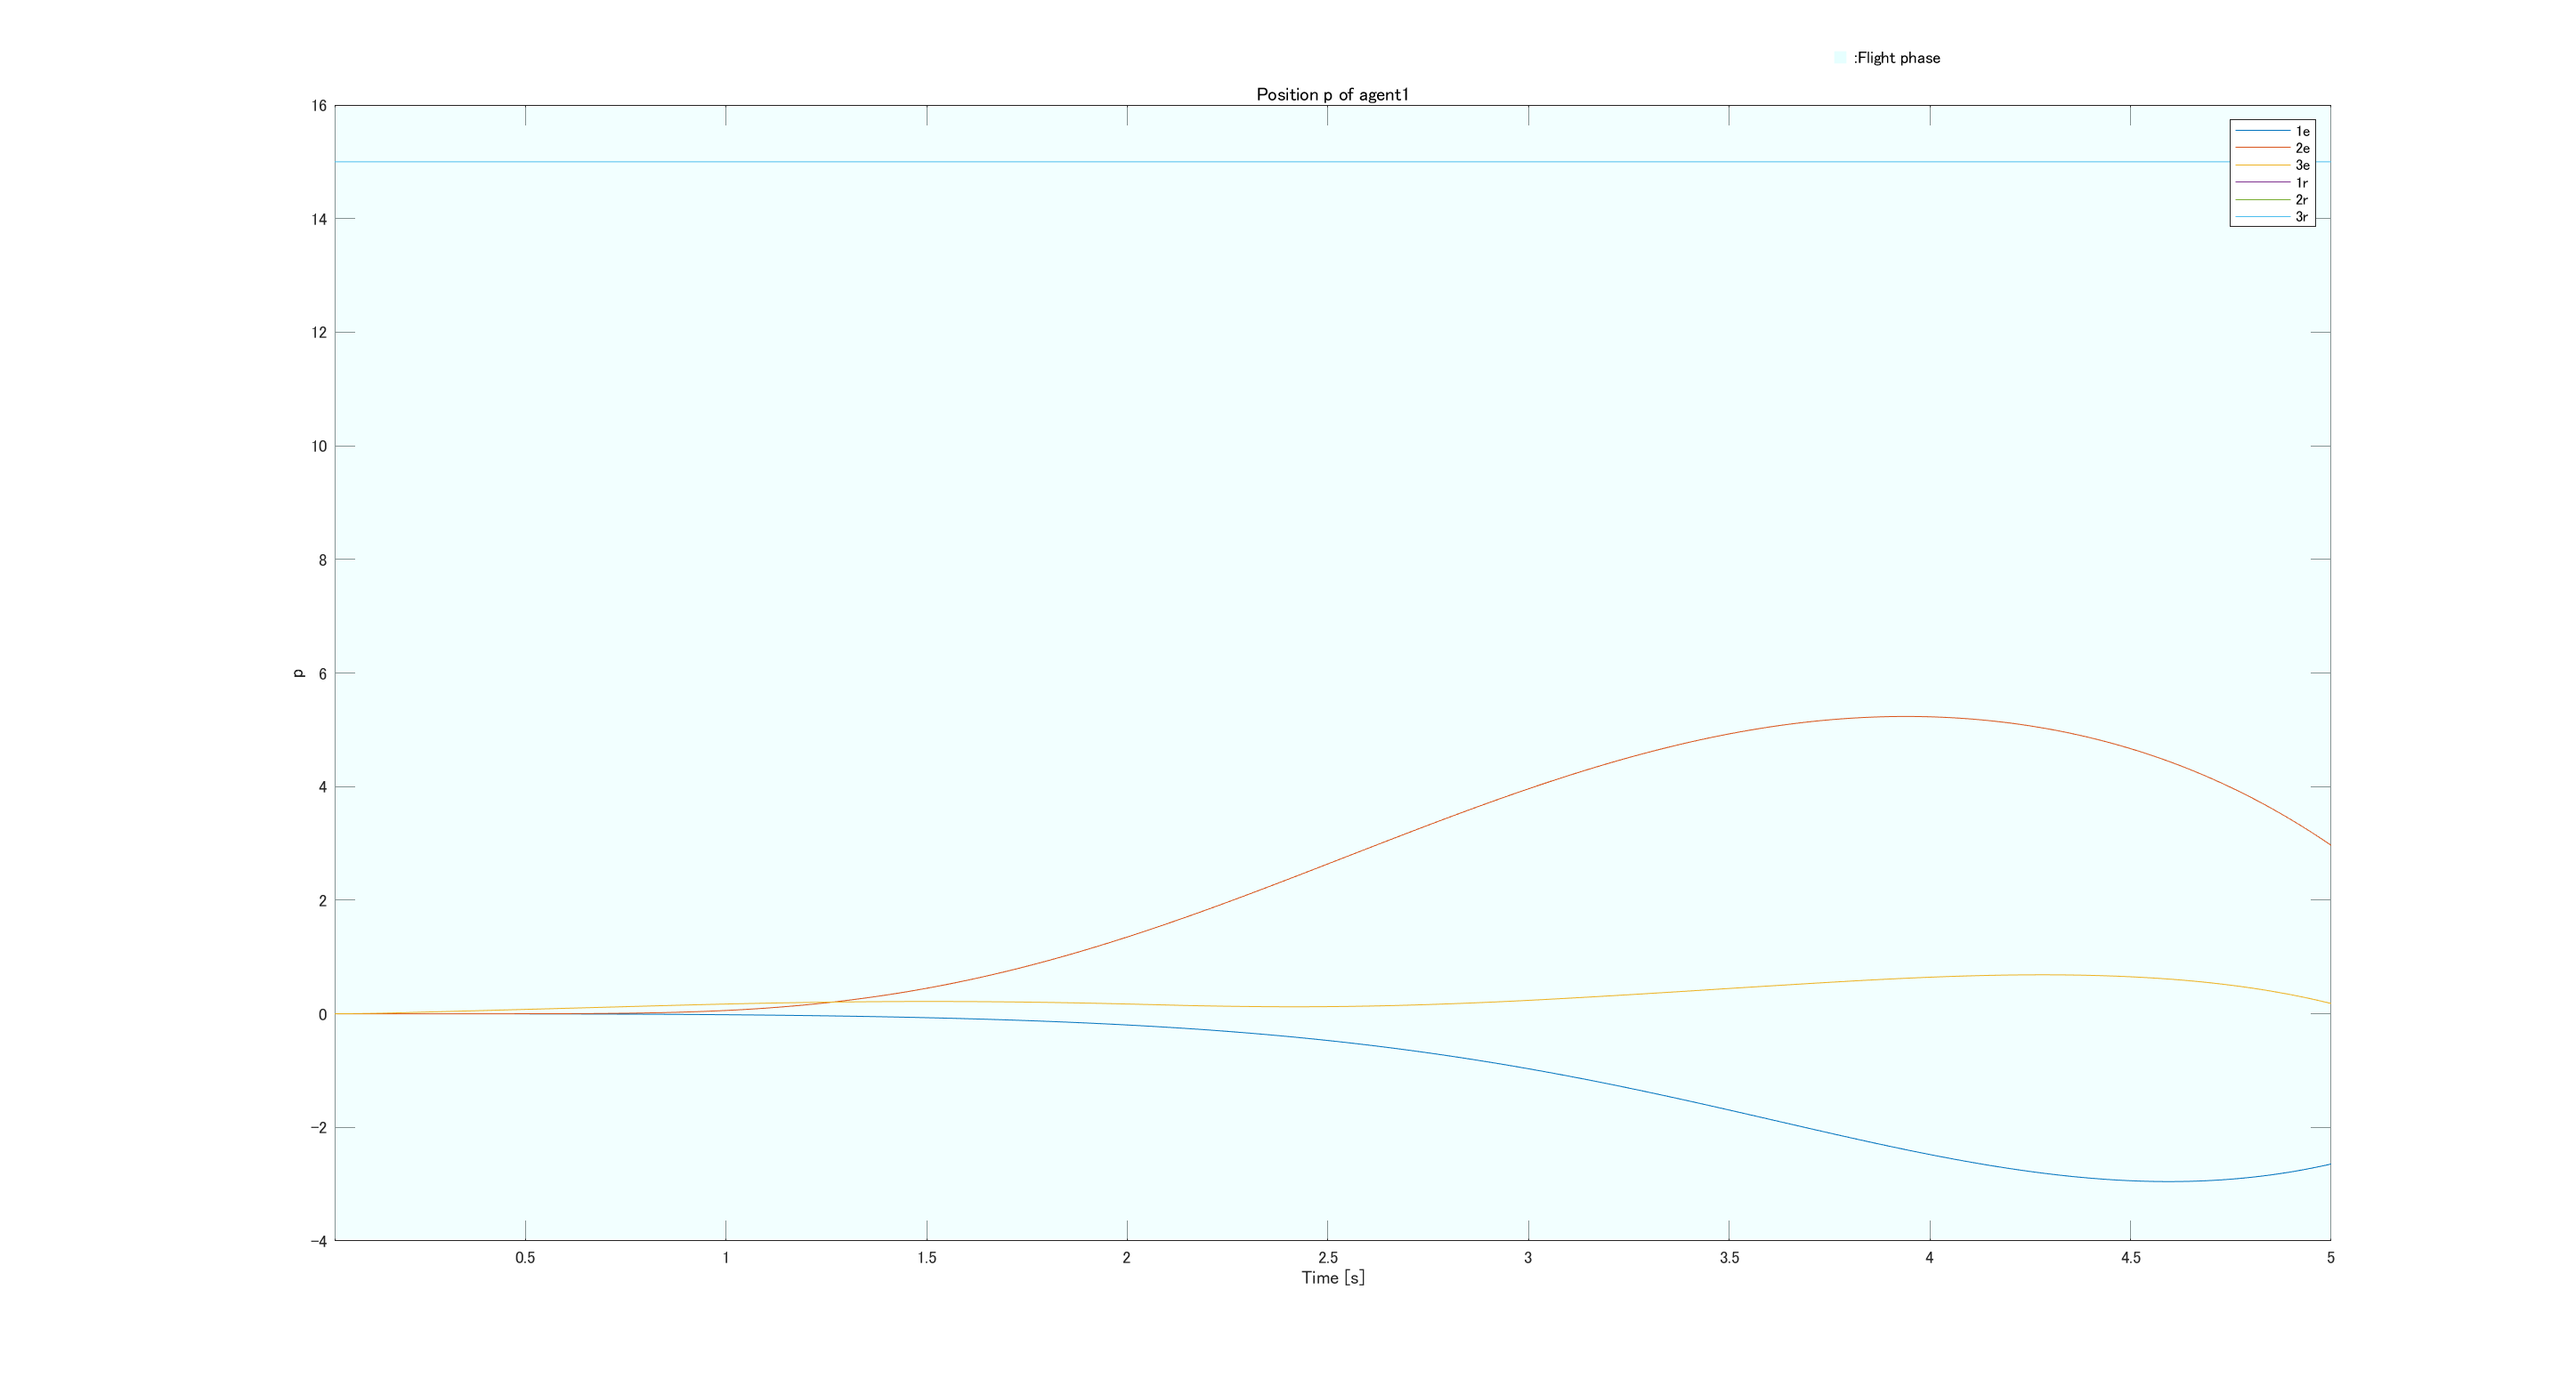
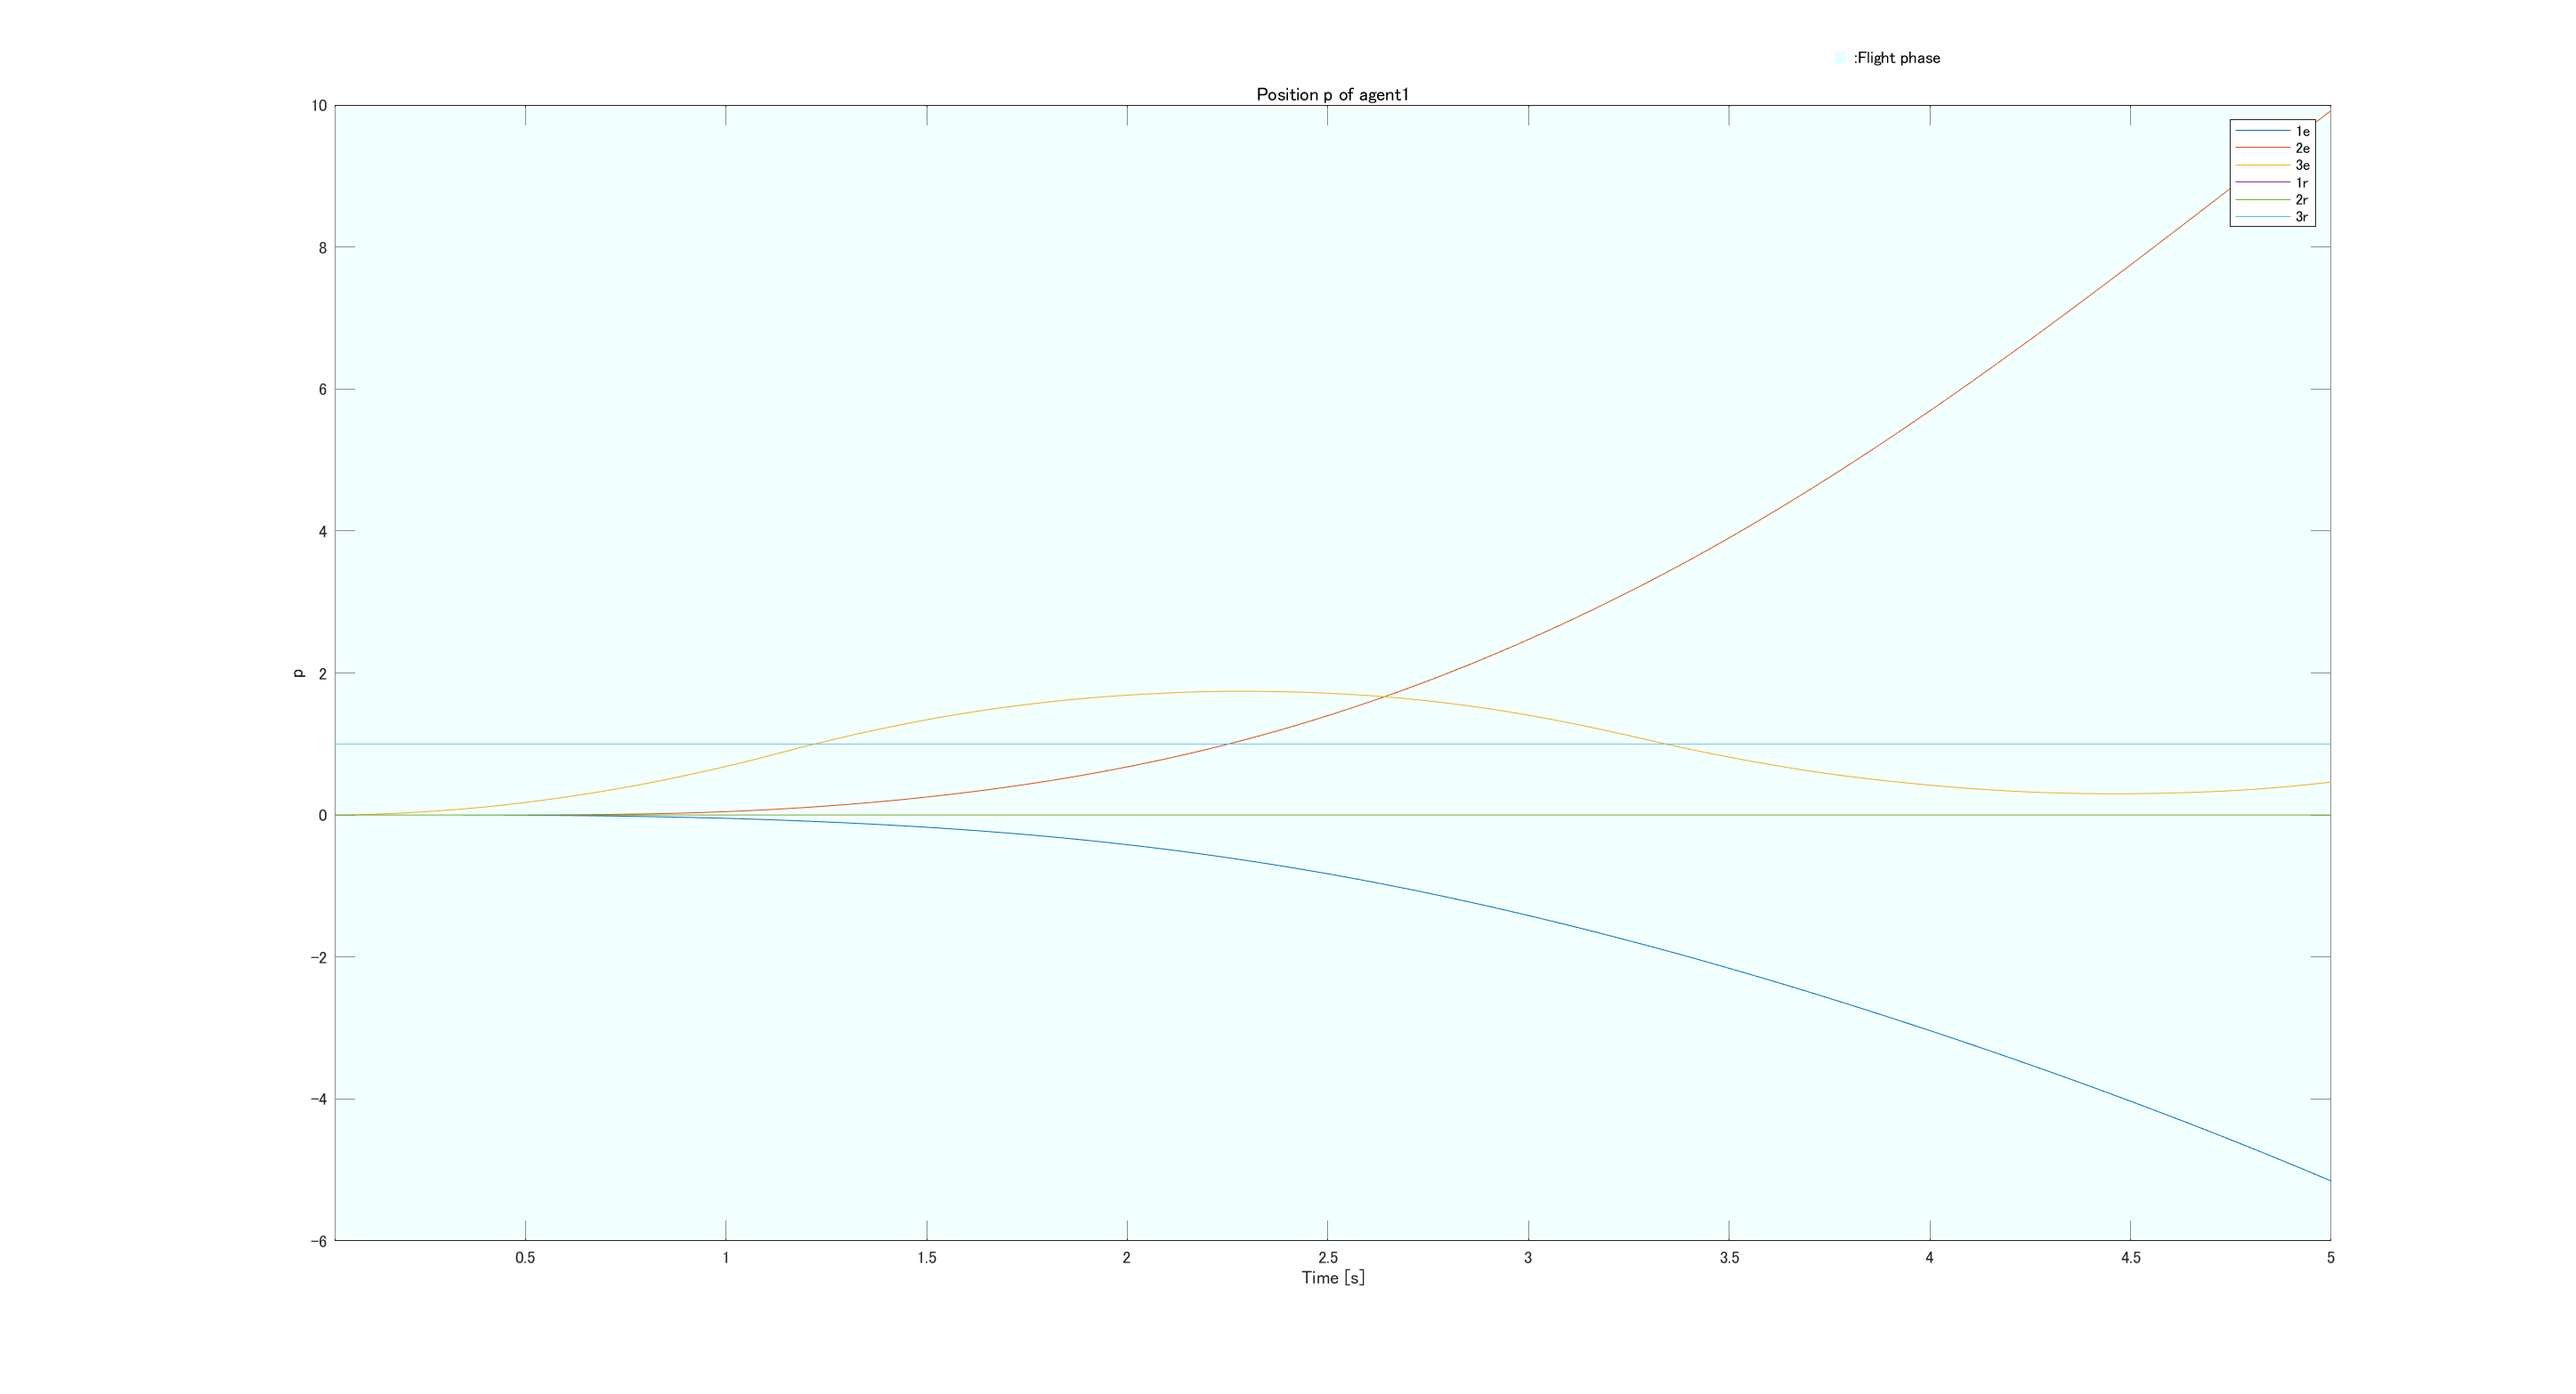
make MCMPC
入力が正しくリセットされていない問題を解決

Changed region(s): [[0.2488, 0.7045, 0.3732, 0.7352], [0.2488, 0.582, 0.2799, 0.6126]]

diff --git a/main_no_horizon_re.m b/main_no_horizon_re.m
@@ -24,7 +24,6 @@ fInput = 0;
 run("main3_loop_setup.m");
 
 try
-    tic
     while round(time.t, 5) <= te
         %% sensor
         %    tic
@@ -58,6 +57,7 @@ end
             agent(i).do_sensor(param(i).sensor.list);
             %if (fOffline);    expdata.overwrite("sensor",time.t,agent,i);end
         end
+        
 
         %% estimator, reference generator, controller
         for i = 1:N
@@ -84,94 +84,75 @@ end
                 param(i).controller.list{j} = param(i).controller.(agent(i).controller.name(j));
             end
             agent(i).do_controller(param(i).controller.list);
-            %if (fOffline); expudata.overwrite("input",time.t,agent,i);end   
+            %if (fOffline); expudata.overwrite("input",time.t,agent,i);end
+            % 強制的に入力を決定
+       
             tic
             % MPC controller
             % ts探し
-            horizon = 2;
-            rng(0,'twister');
             ts = 0;
 %             p_monte = agent.model.state.p
             % 入力のサンプルから評価
             ref_input = [0.269 * 9.81 / 4 0.269 * 9.81 / 4 0.269 * 9.81 / 4 0.269 * 9.81 / 4]'; % ホバリングの目標入力
-            Q_monte_x = 1; Q_monte_y = 1; Q_monte_z = 10000000;
-            Q_monte = [Q_monte_x 0 0; 0 Q_monte_y 0; 0 0 Q_monte_z];
-            R_monte = 1;    VQ_monte = 100;    WQ_monte = 1;
+            Q_monte_x = 1; Q_monte_y = 1; Q_monte_z = 1000000;
+            Q_monte = diag([Q_monte_x, Q_monte_y, Q_monte_z]);
+            VQ_monte_x = 1000; VQ_monte_y = 1000; VQ_monte_z = 1000;
+            VQ_monte = diag([VQ_monte_x, VQ_monte_y, VQ_monte_z]);
+            R_monte = 1;    
             % 評価関数
 %             fun = @(p_monte, u_monte) (p_monte - agent.reference.result.state.p)'*Q_monte*(p_monte - agent.reference.result.state.p)+(u_monte - ref_input)'*R_monte*(u_monte - ref_input); 
 %             fun = @(p_monte) (p_monte - agent.reference.result.state.p)'*Q_monte*(p_monte - agent.reference.result.state.p); 
             fun = @(p_monte, v_monte) (p_monte - agent.reference.result.state.p)'*Q_monte*(p_monte - agent.reference.result.state.p)+v_monte'*VQ_monte*v_monte; 
-%             fun = @(p_monte, v_monte, w_monte) (p_monte - agent.reference.result.state.p)'*Q_monte*(p_monte - agent.reference.result.state.p)+v_monte'*VQ_monte*v_monte+w_monte'*WQ_monte*w_monte; 
             % 制約条件
             Fsub = @(sub_monte1) sub_monte1 > 0;
-            sample = 20;   % サンプル数
             % ホバリングから±sigma%の範囲
-            sigma = 0.1;
-            delta = 0.000;   % プロペラの補正
-%             sigma_xy = 0.0005;
+            rng('shuffle')
+            sigma = 0.3;
+            delta1 = 0.0; delta2 = 0.0; delta3 = 0.0; delta4 = 0.0;
             a = 0.269 * 9.81 / 4 - 0.269 * 9.81 / 4 * sigma;           b = 0.269 * 9.81 / 4 + 0.269 * 9.81 / 4 * sigma;
-            % 入力 u 入力の初期化ちゃんと
-            u1(: ,1) = (b-a).*rand(sample,1) + a;               u2(: ,1) = (b-a).*rand(sample,1) + a + delta;
-            u3(: ,1) = (b-a).*rand(sample,1) + a;               u4(: ,1) = (b-a).*rand(sample,1) + a + delta;
-            u = [u1 u2 u3 u4];  % 予測ステップでは同様の入力を用いる
-            % 配列定義
-            Adata = cell(sample, sample);  % 2horizon = 2乗のサイズの配列
-            P_monte = cell(sample, horizon);
-            V_monte = cell(sample, horizon);
-            State_monte = cell(sample, 1);
-            fZpos = zeros(sample, horizon);
-            fStart = 0;
-            fSub = 0;   fSub_f = 0;
+            sample = 10;   % サンプル数
+            u = (b-a).*rand(sample,4) + a        
+%             a_xy = 0.269 * 9.81 / 4 - 0.269 * 9.81 / 4 * sigma_xy;     b_xy = 0.269 * 9.81 / 4 + 0.269 * 9.81 / 4 * sigma_xy;
+            % 入力 u
+%             u = [0 0 0 0];
+%             u1(: ,1) = (b-a).*rand(sample,1) + a + delta1;               u2(: ,1) = (b-a).*rand(sample,1) + a + delta2;
+%             u3(: ,1) = (b-a).*rand(sample,1) + a + delta3;               u4(: ,1) = (b-a).*rand(sample,1) + a + delta4;
+%             u = [u1 u2 u3 u4];
             
-            % 座標の表示
-            fprintf("%f\t %f\t %f\n", agent.estimator.result.state.p(1), agent.estimator.result.state.p(2), agent.estimator.result.state.p(3))
-            % calculate MPC
-            horizon = 1;
+            
+            % 配列定義
+            Adata = zeros(sample, 1);   % 評価値
+            P_monte = zeros(sample, 3); % ある入力での位置
+            V_monte = zeros(sample, 3); % ある入力での速度
+            fZpos = zeros(sample, 1);
             for monte = 1 : sample
                 [~,tmpx]=agent.model.solver(@(t,x) agent.model.method(x, u(monte, :)',agent.parameter.get()),[ts ts+dt],agent.estimator.result.state.get());
-                State_monte{monte, horizon} = tmpx(end, :);   % モデルの状態の記録
-            end
-            
-            % 予測ステップ
-            horizon = 2;
-            for monte = 1: sample
-                for horimonte = 1 : sample
-                    % ホライゾンの計算中は微分方程式の解を状態として用いる
-                    [~,tmpx]=agent.model.solver(@(t,x) agent.model.method(x, u(monte, :)',agent.parameter.get()),[ts ts+dt],State_monte{monte, horizon-1}');
-%                     P_monte{monte, horizon} = tmpx(end, 1:3);  % ある入力での位置 x, y, z
-%                     V_monte{monte, horizon} = tmpx(end, 7:9);  % ある入力での速度 vx, vy, vz
-                    State_monte{monte, horimonte} = tmpx(end, :);   % モデルの状態の更新
-%                     Adata(monte, horimonte) = fun(P_monte(monte, 1:3)', V_monte(monte, 1:3)');    % p, v
-                     if Fsub(tmpx(end, 1:3)')
-                         Adata{monte, horimonte} = fun(tmpx(end, 1:3)', tmpx(end, 7:9)');
-                    else
-                        Adata{monte, horimonte} = 10^10;
-        %                         Adata{monte, horimonte} = fun(tmpx(end, 1:3)', tmpx(end, 7:9)', tmpx(end, 4:6)');
-                    end
-                    if tmpx(end, 3) < 0
-%                         fSub = fSub + 1;
-                        disp("Stop!!");               % エラーを吐かせて終了させる
-%                         if fSub > 30
-%                             printf("stop simulation");
-%                         end
-%                     else
-%                         fprintf("%3f, %f, %f\n", tmpx(end, 1), tmpx(end, 2), tmpx(end, 3))
-                    end
+                P_monte(monte, :) = tmpx(end, 1:3);  % ある入力での位置 x, y, z
+                V_monte(monte, :) = tmpx(end, 7:9);  % ある入力での速度 vx, vy, vz
+                if Fsub(P_monte(monte, 3)) == 1
+%                     Adata(monte, 1) = fun(P_monte(monte, 1:3)');    % p / 評価値(x, y, z)算出
+                    Adata(monte, 1) = fun(P_monte(monte, 1:3)', V_monte(monte, 1:3)');    % p, v
+%                     fZpos(monte, 1) = 0;
+                else
+                    Adata(monte, 1) = 10^10;
+                    fZpos(monte, 1) = 1
                 end
             end
+            toc
             
-           
             
-            
-            calT = toc;
-            minAdata = zeros(sample, 1);
-            Adata = cell2mat(Adata);
-            for mindata = 1: sample
-                [minAdata_col, min_col] = min(Adata(mindata, :));
-                minAdata(mindata, 1) = minAdata_col;
-            end
-            [~,min_index] = min(minAdata(:, 1));   % 評価値の合計の最小値インデックス算出
+%                 Adata(monte, 1:3) = arrayfun(fun, P_monte(1:3)', u(monte, :)')';  % 評価値(x, y, z)算出
+            [~,min_index] = min(Adata(:, 1));   % 評価値の合計の最小値インデックス算出
+            u(min_index, 4) = u(min_index, 4) + delta4;
             agent.input = u(min_index, :)';     % 最適な入力の取得
+            if fZpos(min_index, 1) == 1
+                printf("Stop!!");               % エラーを吐かせて終了させる
+            end
+%             if  P_monte(min_index, 3) > 0
+%                 agent.input = u(min_index, :)';     % 最適な入力の取得
+%             else
+%                 agent.input = [0; 0; 0; 0];            % z < 0 なら　u = 0
+%             end
         end
         
         %% update state
@@ -225,7 +206,6 @@ end
         end
 
     end
-    toc
 
 catch ME % for error
     % with FH
@@ -242,10 +222,13 @@ end
 close all
 clc
 % plot p:position, er:roll/pitch/yaw, 
+figure(1)
 logger.plot({1,"p", "er"});
 % logger.plot({1,"v", "e"});
+% logger.plot({1,"input", ""});
 % agent(1).reference.timeVarying.show(logger)
-saveas(gcf,'Data/20220616_horizon.png')
+saveas(gcf,'Data/20220616_no_horizon.png')
+
 %% animation
 %VORONOI_BARYCENTER.draw_movie(logger, N, Env,1:N)
 agent(1).animation(logger,"target",1);

diff --git a/main_horizon_re.m b/main_horizon_re.m
@@ -110,10 +110,12 @@ end
             delta = 0.000;   % プロペラの補正
 %             sigma_xy = 0.0005;
             a = 0.269 * 9.81 / 4 - 0.269 * 9.81 / 4 * sigma;           b = 0.269 * 9.81 / 4 + 0.269 * 9.81 / 4 * sigma;
-            % 入力 u 入力の初期化ちゃんと
-            u1(: ,1) = (b-a).*rand(sample,1) + a;               u2(: ,1) = (b-a).*rand(sample,1) + a + delta;
-            u3(: ,1) = (b-a).*rand(sample,1) + a;               u4(: ,1) = (b-a).*rand(sample,1) + a + delta;
-            u = [u1 u2 u3 u4];  % 予測ステップでは同様の入力を用いる
+            % 入力 u
+            u = [0 0 0 0];  % 初期化
+%             u1(: ,1) = (b-a).*rand(sample,1) + a;               u2(: ,1) = (b-a).*rand(sample,1) + a + delta;
+%             u3(: ,1) = (b-a).*rand(sample,1) + a;               u4(: ,1) = (b-a).*rand(sample,1) + a + delta;
+%             u = [u1 u2 u3 u4];  % 予測ステップでは同様の入力を用いる
+            u = (b-a).*rand(sample,4) + a;  
             % 配列定義
             Adata = cell(sample, sample);  % 2horizon = 2乗のサイズの配列
             P_monte = cell(sample, horizon);
